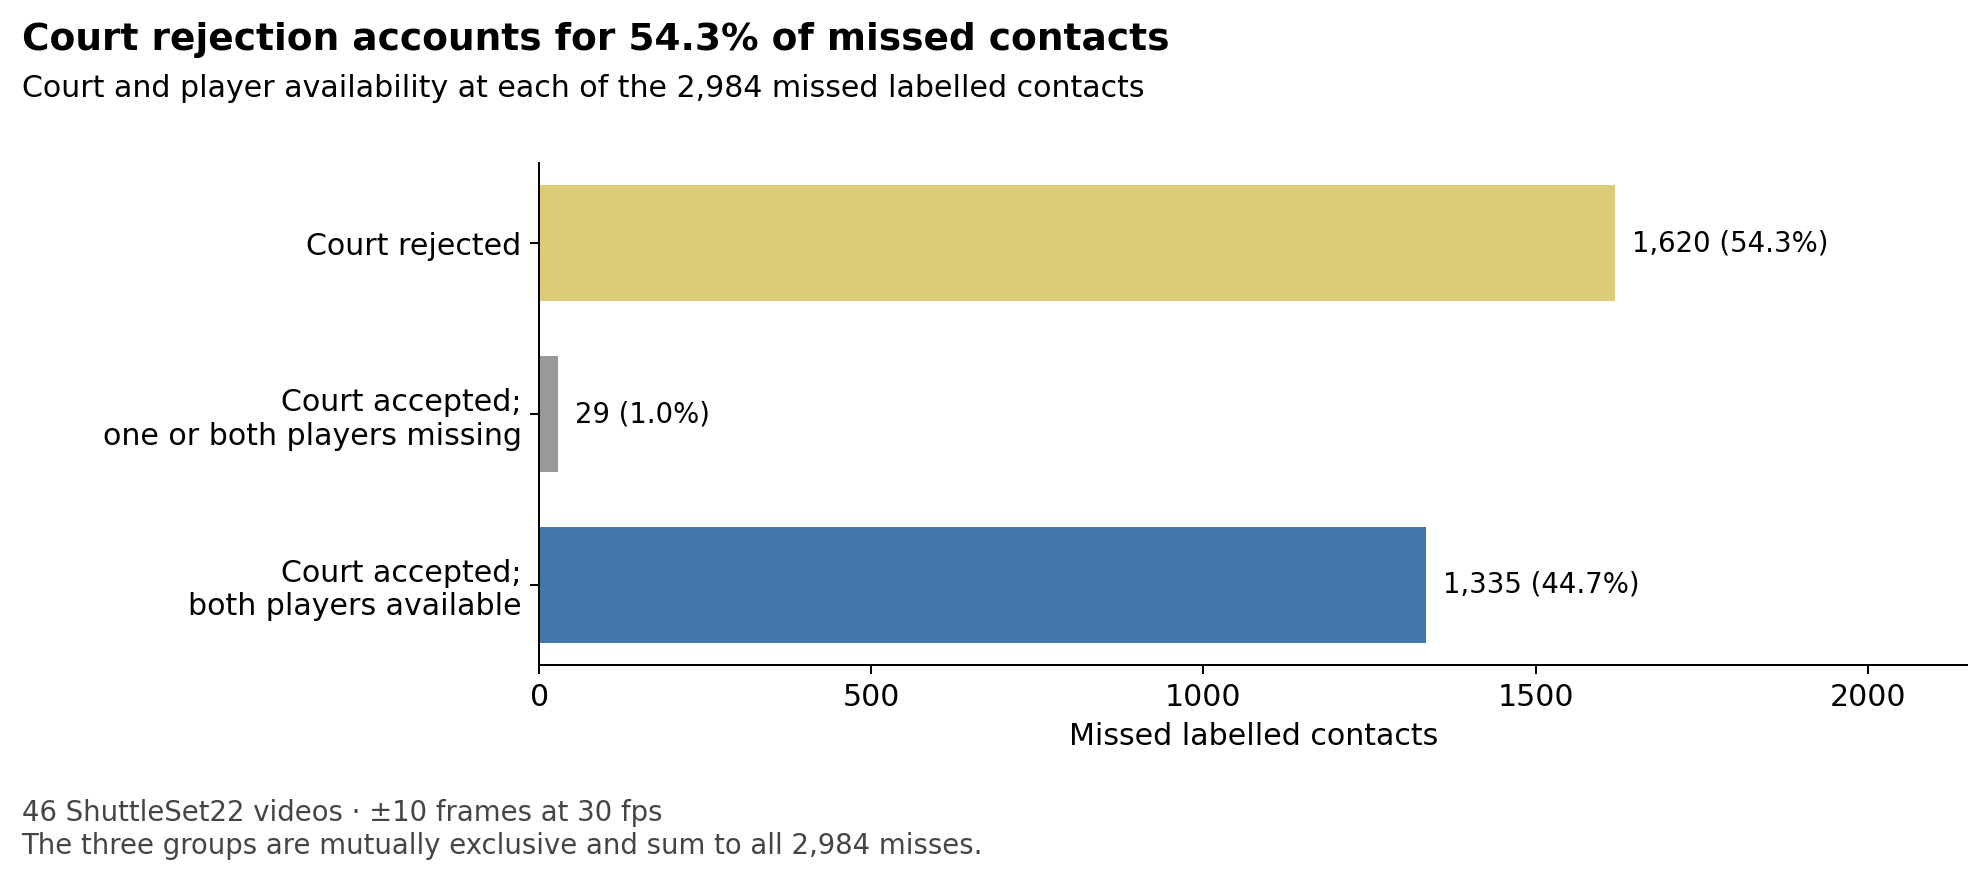
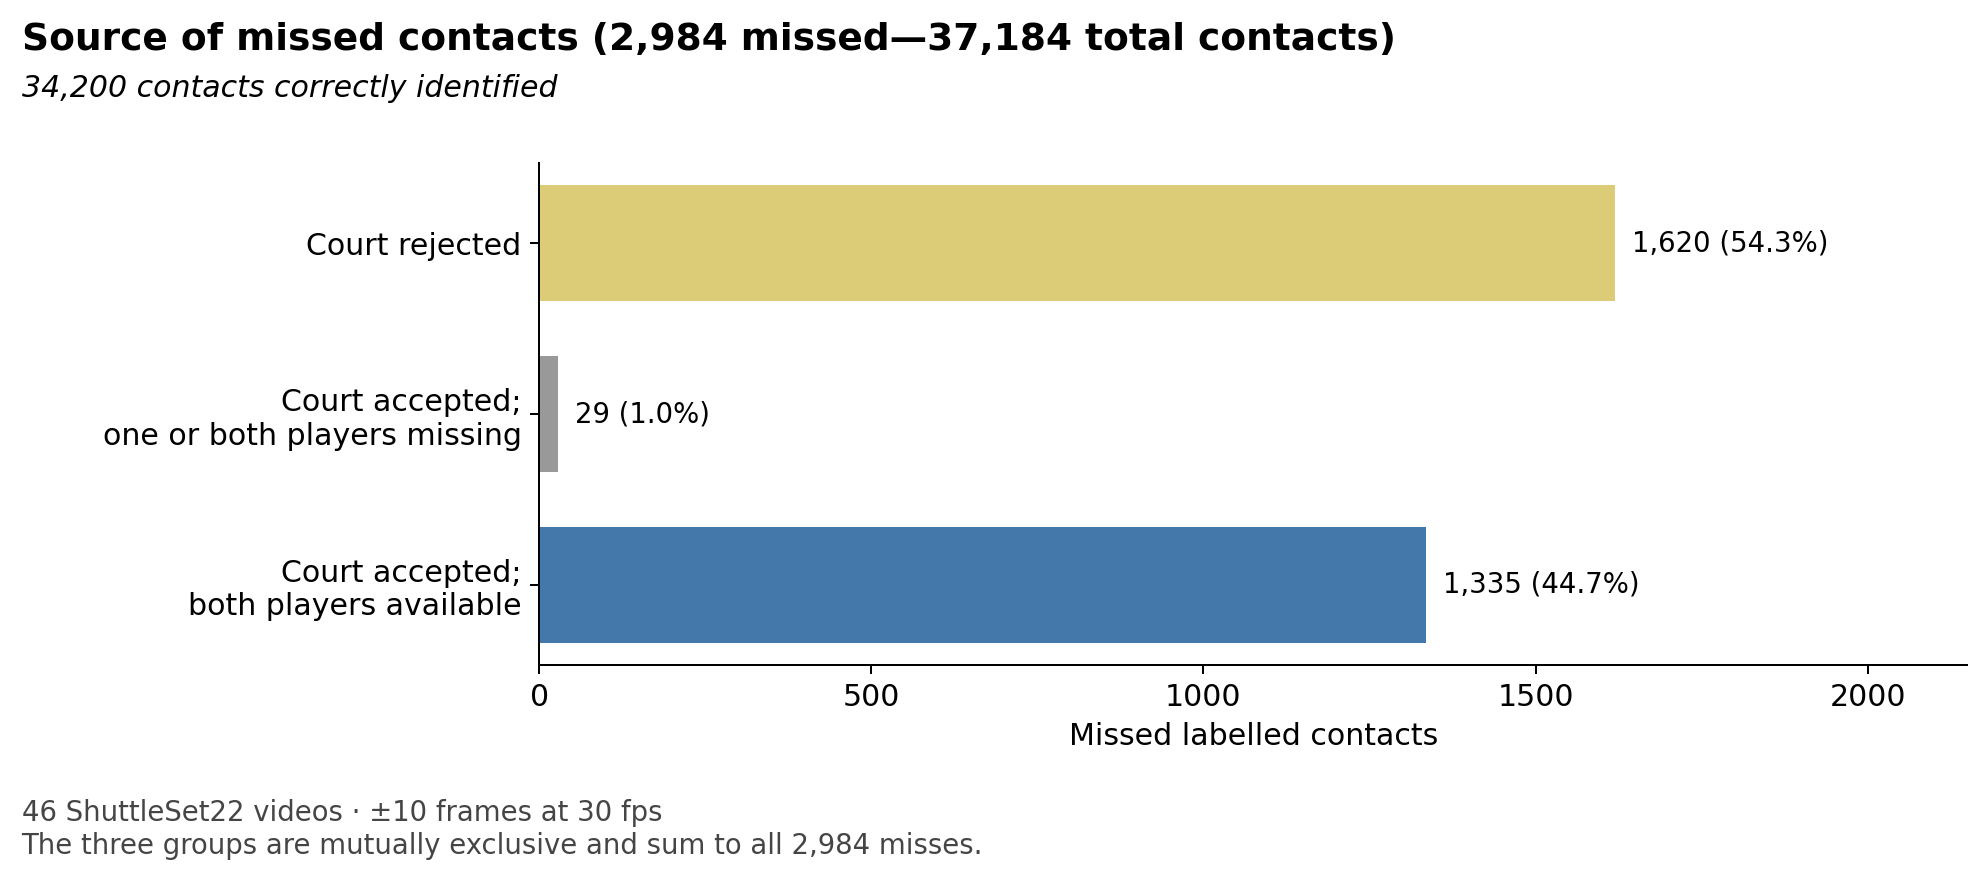
updated annotator missed-contacts plot

Changed region(s): [[0.0, 0.0, 0.7173, 0.1226]]

diff --git a/experiments/annotator/annotator_closeout_new_courts/scripts/plot_readme_details.py b/experiments/annotator/annotator_closeout_new_courts/scripts/plot_readme_details.py
@@ -8,6 +8,7 @@ FIGURES = Path(__file__).resolve().parents[1] / "figures"
 BLUE = "#4477AA"
 SAND = "#DDCC77"
 GREY = "#999999"
+LABELLED_CONTACTS = 37_184
 plt.rcParams.update({"font.size": 12, "axes.spines.top": False, "axes.spines.right": False})
 
 
@@ -100,9 +101,9 @@ def plot_upstream_context() -> None:
     total = sum(counts)
     fig, ax = plt.subplots(figsize=(11.5, 4.9))
     fig.subplots_adjust(left=0.29, right=0.98, bottom=0.25, top=0.82)
-    fig.suptitle("Court rejection accounts for 54.3% of missed contacts", x=0.04,
+    fig.suptitle(f"Source of missed contacts ({total:,} missed—{LABELLED_CONTACTS:,} total contacts)", x=0.04,
                  ha="left", fontsize=15, weight="bold")
-    fig.text(0.04, 0.895, f"Court and player availability at each of the {total:,} missed labelled contacts")
+    fig.text(0.04, 0.895, f"{LABELLED_CONTACTS - total:,} contacts correctly identified", fontstyle="italic")
     bars = ax.barh(labels, counts, color=[SAND, GREY, BLUE], height=0.68)
     for bar, count in zip(bars, counts, strict=True):
         ax.text(count + 25, bar.get_y() + bar.get_height() / 2,
